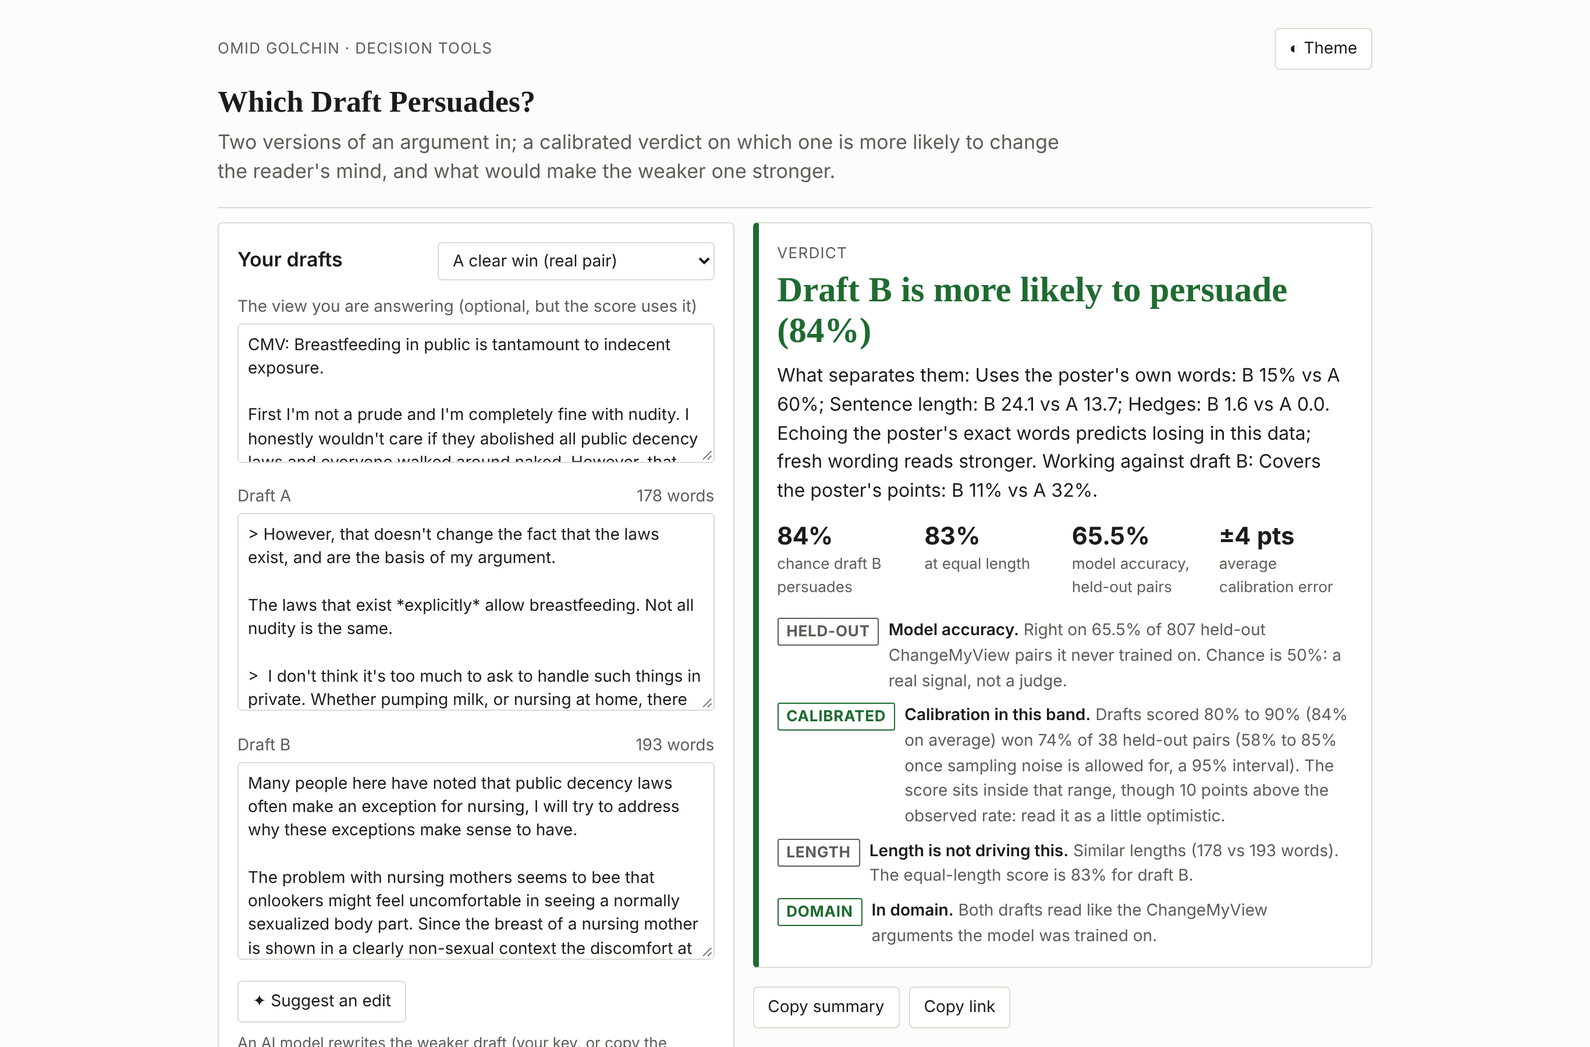
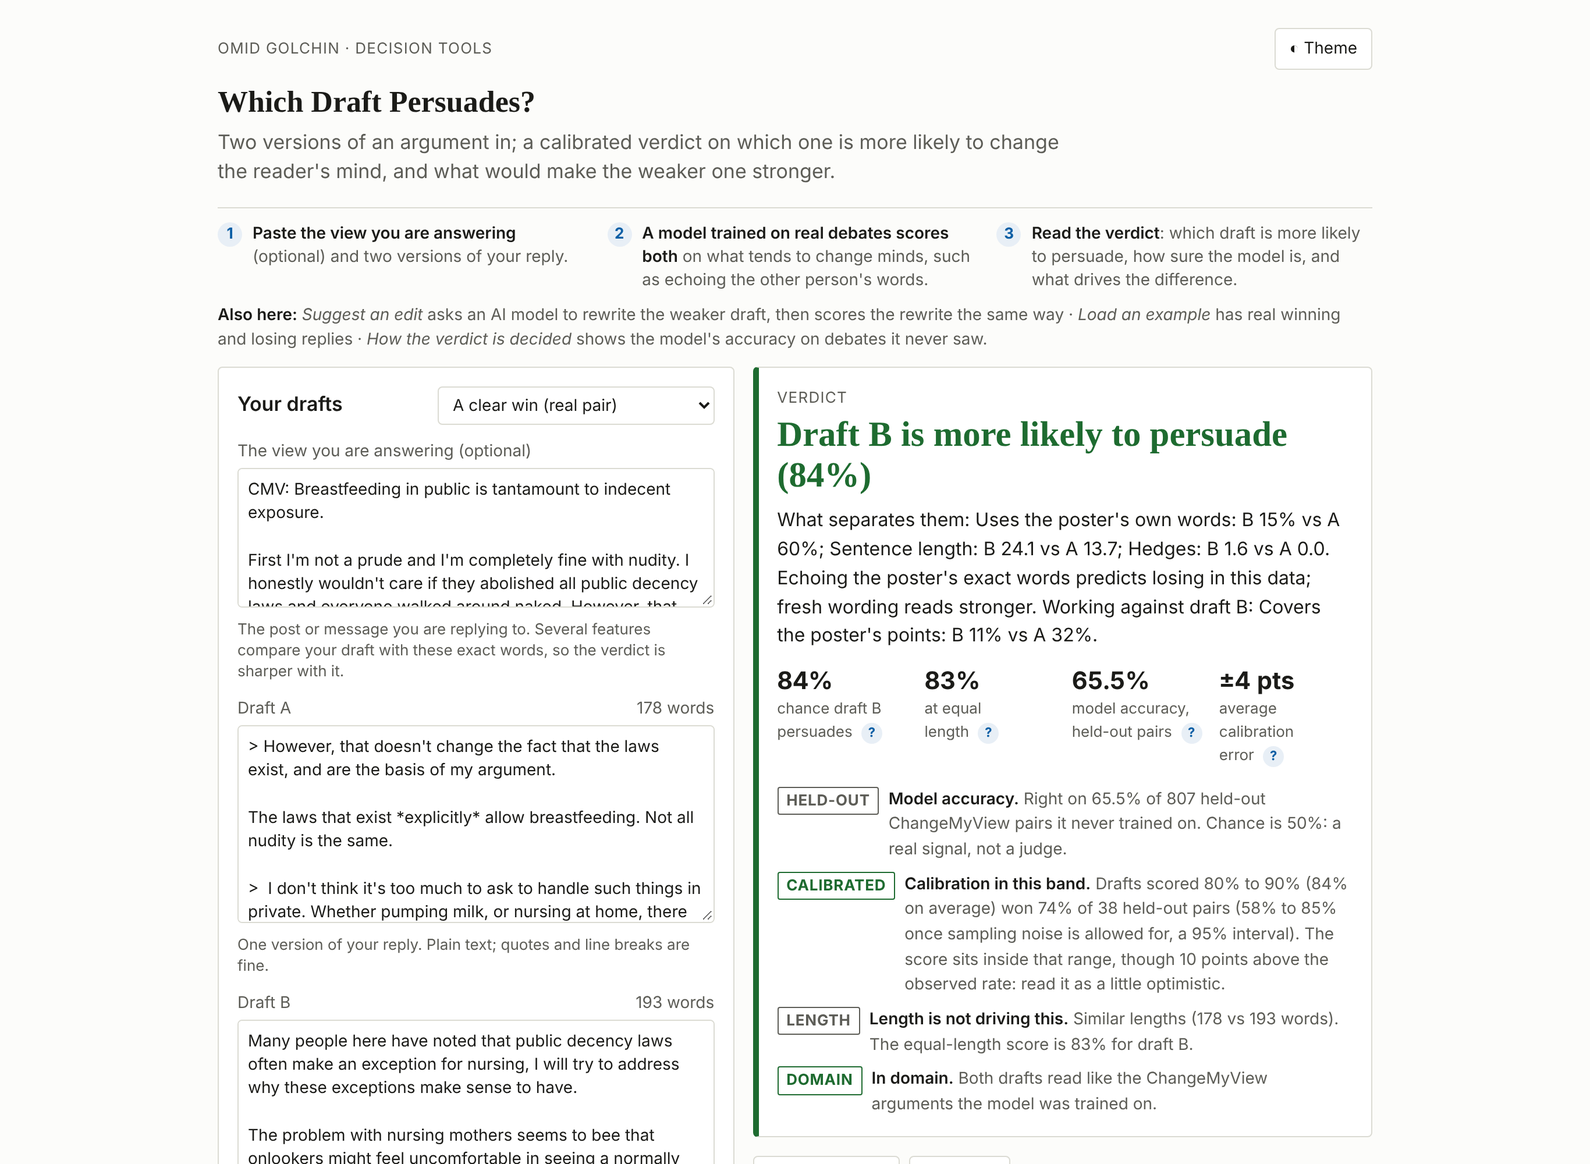
Explain every input and result; shared kit v3
Each mode now opens with a three-step guide, every input has a hint saying what the number is and why it matters, and technical terms in inputs and results have a ? that opens a plain-language explanation. Kit v3: explanations, arrow-key tabs, aligned input columns, slanted category labels on crowded charts, one shared list of tools in the footer. README, hero GIF and screenshots match the page.

Changed region(s): [[0.1245, 0.0311, 0.8712, 1.0], [0.8089, 0.0311, 0.8712, 0.0622]]

diff --git a/docs/tool-common.js b/docs/tool-common.js
@@ -1,4 +1,4 @@
-/* omid-tools-kit / tool-common.js: helpers shared by every tool (v2).
+/* omid-tools-kit / tool-common.js: helpers shared by every tool (v3).
  *
  *   Tool.readParams(defaults)      inputs from the URL query, typed like defaults
  *   Tool.writeParams(obj)          inputs into the URL (replaceState, no reload)
@@ -6,6 +6,9 @@
  *   Tool.fmt.*                     number formatting
  *   Tool.lineChart(el, spec)       a small, dependency-free SVG line chart
  *   Tool.assist(config)            the "Fill from description" AI assist
+ *   Tool.explain(glossary)         "?" buttons that open a plain-language explanation
+ *   Tool.siblings(currentRepo)     the "More tools" footer line, from one shared list
+ *   Tool.tabs(tablist)             arrow-key support for a mode switch
  *
  * No dependencies. Works from file:// and on GitHub Pages.
  */
@@ -132,6 +135,14 @@
     var yMax = spec.yMax != null ? spec.yMax : Math.max.apply(null, ys);
     if (yMax === yMin) { yMax += 1; yMin -= 1; }
     if (spec.yMax == null) yMax += (yMax - yMin) * 0.06;
+    // category labels that do not fit side by side are slanted, with room made below
+    var slant = false;
+    if (spec.xTicks && spec.xFormat && spec.xTicks.length > 1) {
+      var maxLen = 0;
+      spec.xTicks.forEach(function (v) { maxLen = Math.max(maxLen, String(spec.xFormat(v)).length); });
+      var room = (W - m.l - m.r) / spec.xTicks.length;
+      if (maxLen * 6.3 > room - 6) { slant = true; m.b += Math.min(78, maxLen * 4.4); }
+    }
     var X = function (v) { return m.l + (v - xMin) / (xMax - xMin || 1) * (W - m.l - m.r); };
     var Y = function (v) { return H - m.b - (v - yMin) / (yMax - yMin) * (H - m.t - m.b); };
     var svg = el("svg", { viewBox: "0 0 " + W + " " + H, role: "img", "aria-label": spec.aria || spec.yTitle || "chart" }, host);
@@ -148,7 +159,9 @@
     xt.forEach(function (v) {
       if (v < xMin - 1e-12 || v > xMax + 1e-12) return;
       el("line", { x1: X(v), x2: X(v), y1: H - m.b, y2: H - m.b + 4, stroke: muted }, svg);
-      var t = el("text", { x: X(v), y: H - m.b + 17, "text-anchor": "middle" }, svg); t.textContent = xFmt(v);
+      var t = slant ? el("text", { x: X(v) + 4, y: H - m.b + 13, "text-anchor": "end", transform: "rotate(-38 " + (X(v) + 4) + " " + (H - m.b + 13) + ")" }, svg)
+        : el("text", { x: X(v), y: H - m.b + 17, "text-anchor": "middle" }, svg);
+      t.textContent = xFmt(v);
     });
     el("line", { x1: m.l, x2: W - m.r, y1: H - m.b, y2: H - m.b, stroke: muted }, svg);
     if (spec.xTitle) { var xtT = el("text", { x: (m.l + W - m.r) / 2, y: H - 6, "text-anchor": "middle", class: "title" }, svg); xtT.textContent = spec.xTitle; }
@@ -390,7 +403,144 @@
     return { buildPrompt: function (t) { return buildPrompt(cfg, t); }, parseReply: parseReply };
   }
 
-  var api = { readParams: readParams, writeParams: writeParams, copy: copy, fmt: fmt, lineChart: lineChart, niceTicks: niceTicks, assist: assist, _buildPrompt: buildPrompt, _parseReply: parseReply, _quoteFound: quoteFound, _coerce: coerce };
+
+  /* ---------------- explanations ("?" buttons) ----------------
+   * Markup: <button type="button" class="tip" data-tip="key">?</button>
+   * placed next to a label or result. glossary[key] = { t: "Term", d: "Plain explanation" }.
+   * The explanation opens as a small card under the button; Esc, a click
+   * elsewhere, or switching modes closes it. No layout shift: the card floats.
+   */
+  var tipCard = null, tipOwner = null;
+  function closeTip() {
+    if (tipCard) { tipCard.remove(); tipCard = null; }
+    if (tipOwner) { tipOwner.setAttribute("aria-expanded", "false"); tipOwner = null; }
+  }
+  function placeTip(btn) {
+    if (!tipCard) return;
+    var r = btn.getBoundingClientRect(), vw = document.documentElement.clientWidth;
+    var w = Math.min(340, vw - 24);
+    tipCard.style.width = w + "px";
+    var left = Math.max(12, Math.min(r.left + r.width / 2 - w / 2, vw - w - 12));
+    tipCard.style.left = (left + window.scrollX) + "px";
+    tipCard.style.top = (r.bottom + window.scrollY + 6) + "px";
+  }
+  var GLOSS = {};
+  function decorate(root) {
+    (root.querySelectorAll ? root : document).querySelectorAll("[data-tip]:not(.tip)").forEach(function (btn) {
+      var g = GLOSS[btn.getAttribute("data-tip")];
+      if (!g) return;
+      btn.classList.add("tip");
+      if (btn.tagName === "BUTTON") btn.type = "button";
+      if (!btn.textContent.trim()) btn.textContent = "?";
+      btn.setAttribute("aria-label", "What is " + g.t.replace(/[.?:]$/, "") + "?");
+      btn.setAttribute("aria-expanded", "false");
+      // keep the "?" on the same line as the last word before it
+      var prev = btn.previousSibling;
+      if (prev && prev.nodeType === 3 && /\S/.test(prev.nodeValue) && !(btn.parentNode.classList && btn.parentNode.classList.contains("nowrap"))) {
+        var m = prev.nodeValue.match(/^([\s\S]*?)(\S+)(\s*)$/);
+        if (m) {
+          prev.nodeValue = m[1];
+          var span = document.createElement("span"); span.className = "nowrap";
+          span.appendChild(document.createTextNode(m[2] + (m[3] ? "\u00a0" : "")));
+          btn.parentNode.insertBefore(span, btn); span.appendChild(btn);
+        }
+      }
+    });
+  }
+  /* Align labels, inputs and hints across the two input columns (CSS subgrid). */
+  function alignFields(root) {
+    if (typeof CSS === "undefined" || !CSS.supports || !CSS.supports("grid-template-rows", "subgrid")) return;
+    (root || document).querySelectorAll(".fields").forEach(function (grid) {
+      grid.classList.add("sg-on");
+      Array.prototype.forEach.call(grid.children, function (f) {
+        if (!f.classList.contains("field") || f.classList.contains("full") || f.classList.contains("sg")) return;
+        var kids = Array.prototype.slice.call(f.children);
+        if (!kids.length || kids[0].tagName !== "LABEL" || kids.length < 2) return;
+        var after = document.createElement("div"); after.className = "field-after";
+        kids.slice(2).forEach(function (k) { after.appendChild(k); });
+        f.appendChild(after); f.classList.add("sg");
+      });
+    });
+  }
+  function explain(glossary) {
+    Object.keys(glossary || {}).forEach(function (k) { GLOSS[k] = glossary[k]; });
+    decorate(document);
+    if (explain._wired) return;
+    explain._wired = true;
+    new MutationObserver(function (ms) { ms.forEach(function (m) { m.addedNodes.forEach(function (n) { if (n.nodeType === 1) { if (n.hasAttribute("data-tip")) decorate(n.parentNode || document); else decorate(n); } }); }); })
+      .observe(document.body, { childList: true, subtree: true });
+    document.addEventListener("click", function (e) {
+      var btn = e.target.closest ? e.target.closest("[data-tip]") : null;
+      if (btn && GLOSS[btn.getAttribute("data-tip")]) {
+        e.preventDefault();
+        var same = tipOwner === btn; closeTip(); if (same) return;
+        var g = GLOSS[btn.getAttribute("data-tip")];
+        tipCard = document.createElement("div");
+        tipCard.className = "tip-card"; tipCard.setAttribute("role", "note");
+        tipCard.id = "tipc-" + Math.random().toString(36).slice(2, 8);
+        btn.setAttribute("aria-describedby", tipCard.id);
+        tipCard.innerHTML = '<p class="tip-t">' + esc(g.t) + '</p><p class="tip-d">' + g.d + "</p>";
+        document.body.appendChild(tipCard);
+        tipOwner = btn; btn.setAttribute("aria-expanded", "true"); placeTip(btn);
+        return;
+      }
+      if (tipCard && !tipCard.contains(e.target)) closeTip();
+    });
+    document.addEventListener("keydown", function (e) { if (e.key === "Escape" && tipCard) { var o = tipOwner; closeTip(); if (o) o.focus(); } });
+    window.addEventListener("resize", function () { if (tipOwner) placeTip(tipOwner); });
+  }
+
+  /* ---------------- the shared tool list ---------------- */
+  var TOOLS = [
+    ["bayesian-ab-lab", "A/B Test Decision Tool"],
+    ["queue-simulator", "Call Center Staffing Planner"],
+    ["experiment-hazard-simulator", "Agent Eval Planner"],
+    ["llm-eval-error-bar", "Error Bars for LLM Evals"],
+    ["ordering-policy-tester", "Ordering Policy Tester"],
+    ["order-quantity-planner", "Order Quantity Planner"],
+    ["production-line-simulator", "Production Line Bottleneck Finder"],
+    ["persuasion-checker", "Which Draft Persuades?"],
+    ["gpu-budget-planner", "GPU Budget Planner"]
+  ];
+  function siblings(current) {
+    var host = document.querySelector(".kit-siblings");
+    if (!host) return;
+    host.innerHTML = '<span class="kit-siblings-label">More tools:</span> ' + TOOLS.map(function (t) {
+      return t[0] === current ? '<a href="https://omidgolchin.github.io/' + t[0] + '/" aria-current="page">' + t[1] + "</a>"
+        : '<a href="https://omidgolchin.github.io/' + t[0] + '/">' + t[1] + "</a>";
+    }).join(" · ");
+  }
+
+  /* ---------------- tabs: arrow keys, panels ---------------- */
+  function tabs(list) {
+    list = list || document.querySelector("[role=tablist]");
+    if (!list) return;
+    var items = Array.prototype.slice.call(list.querySelectorAll("[role=tab]"));
+    items.forEach(function (t) {
+      t.addEventListener("click", function () { closeTip(); });
+      t.addEventListener("keydown", function (e) {
+        var i = items.indexOf(t), j = -1;
+        if (e.key === "ArrowRight") j = (i + 1) % items.length;
+        else if (e.key === "ArrowLeft") j = (i - 1 + items.length) % items.length;
+        else if (e.key === "Home") j = 0; else if (e.key === "End") j = items.length - 1;
+        if (j < 0) return;
+        e.preventDefault(); items[j].focus(); items[j].click();
+      });
+    });
+    var sync = function () { items.forEach(function (t) { t.tabIndex = t.getAttribute("aria-selected") === "true" ? 0 : -1; }); };
+    sync(); new MutationObserver(sync).observe(list, { subtree: true, attributes: true, attributeFilter: ["aria-selected"] });
+  }
+
+  if (typeof document !== "undefined") {
+    document.addEventListener("DOMContentLoaded", function () {
+      var m = location.pathname.match(/\/([^\/]+)\/(?:docs\/)?(?:index\.html)?$/);
+      siblings(m ? m[1] : "");
+      tabs();
+      alignFields();
+    });
+  }
+
+  var api = { explain: explain, alignFields: alignFields, closeTip: closeTip, siblings: siblings, tabs: tabs, TOOLS: TOOLS, readParams: readParams, writeParams: writeParams, copy: copy, fmt: fmt, lineChart: lineChart, niceTicks: niceTicks, assist: assist, _buildPrompt: buildPrompt, _parseReply: parseReply, _quoteFound: quoteFound, _coerce: coerce };
   if (typeof module !== "undefined" && module.exports) module.exports = api;
   if (typeof window !== "undefined") window.Tool = api;
 })();

diff --git a/docs/index.html b/docs/index.html
@@ -24,6 +24,14 @@
     <h1>Which Draft Persuades?</h1>
     <p class="kit-tagline">Two versions of an argument in; a calibrated verdict on which one is more likely to change the reader's mind, and what would make the weaker one stronger.</p>
   </header>
+  <div class="guide" aria-label="How to use this tool">
+    <ol class="steps">
+      <li><b>Paste the view you are answering</b> (optional) and two versions of your reply.</li>
+      <li><b>A model trained on real debates scores both</b> on what tends to change minds, such as echoing the other person's words.</li>
+      <li><b>Read the verdict</b>: which draft is more likely to persuade, how sure the model is, and what drives the difference.</li>
+    </ol>
+    <p class="also"><b>Also here:</b> <i>Suggest an edit</i> asks an AI model to rewrite the weaker draft, then scores the rewrite the same way · <i>Load an example</i> has real winning and losing replies · <i>How the verdict is decided</i> shows the model's accuracy on debates it never saw.</p>
+  </div>
 
   <div class="work">
     <form class="panel" id="f-main" novalidate onsubmit="return false">
@@ -34,15 +42,15 @@
         </select>
       </div>
       <div class="fields">
-        <div class="field full"><label for="op">The view you are answering <span class="muted">(optional, but the score uses it)</span></label>
+        <div class="field full"><label for="op">The view you are answering <span class="muted">(optional)</span></label>
           <textarea id="op" placeholder="Paste the original post or message your drafts reply to. Several features measure how a draft engages with these exact words, so the verdict is sharper with it."></textarea>
-        </div>
+        <div class="hint">The post or message you are replying to. Several features compare your draft with these exact words, so the verdict is sharper with it.</div></div>
         <div class="field full"><label for="draftA">Draft A <span class="wc" id="wcA"></span></label>
           <textarea id="draftA" class="tall" placeholder="Paste the first version of your argument."></textarea>
-        </div>
+        <div class="hint">One version of your reply. Plain text; quotes and line breaks are fine.</div></div>
         <div class="field full"><label for="draftB">Draft B <span class="wc" id="wcB"></span></label>
           <textarea id="draftB" class="tall" placeholder="Paste the second version."></textarea>
-        </div>
+        <div class="hint">The other version, answering the same view.</div></div>
       </div>
       <div class="actions" style="margin-top:12px">
         <button type="button" id="assistToggle">✦ Suggest an edit</button>
@@ -71,7 +79,7 @@
   <p class="footnote" id="exNote" hidden style="margin-top:10px"></p>
 
   <section class="panel" style="margin-top:16px">
-    <h2>What drives the difference</h2>
+    <h2>What drives the difference <button type="button" data-tip="drivers"></button></h2>
     <div class="svgchart" id="contribChart"></div>
     <p class="chart-caption" id="contribCaption"></p>
   </section>
@@ -99,10 +107,7 @@
   </details>
 
   <footer class="kit-footer">
-    <p class="kit-siblings"><span class="kit-siblings-label">More tools:</span>
-      <a href="https://omidgolchin.github.io/bayesian-ab-lab/">A/B Test Decision Tool</a> ·
-      <a href="https://omidgolchin.github.io/queue-simulator/">Call Center Staffing Planner</a> ·
-      <a href="https://omidgolchin.github.io/experiment-hazard-simulator/">Agent Eval Planner</a></p>
+    <p class="kit-siblings"></p>
     <p>Built by Omid Golchin · <a href="https://github.com/omidgolchin/persuasion-checker">Code, tests and design decisions</a> · Everything runs in your browser; nothing you type is sent anywhere unless you use the AI edit with your own key.</p>
   </footer>
 </main>

diff --git a/docs/tool.css b/docs/tool.css
@@ -1,5 +1,5 @@
 [hidden] { display: none !important; }
-/* omid-tools-kit / tool.css: the layout shared by every tool (v2).
+/* omid-tools-kit / tool.css: the layout shared by every tool (v3).
  *
  * Loads after kit.css. Adds the tool page pattern:
  *   header, mode switch, [inputs | verdict] two-column work area,
@@ -103,3 +103,38 @@ select.example { font-size: var(--fs-small); }
 
 .footnote { font-size: var(--fs-caption); color: var(--muted); }
 .page-sub { color: var(--muted); font-size: var(--fs-lede); max-width: 70ch; margin: var(--sp-2) 0 0; }
+
+/* ---- v3: how-to guide, explanations, phone fixes ---- */
+.guide { margin: var(--sp-3) 0 0; }
+.guide .steps { list-style: none; counter-reset: step; display: grid; grid-template-columns: repeat(3, minmax(0, 1fr)); gap: var(--sp-3); margin: 0; padding: 0; }
+.guide .steps li { counter-increment: step; position: relative; padding-left: 30px; font-size: var(--fs-small); color: var(--muted); line-height: 1.45; }
+.guide .steps li::before { content: counter(step); position: absolute; left: 0; top: 0; width: 21px; height: 21px; border-radius: 50%; background: var(--accent-soft); color: var(--accent); font-weight: 700; font-size: var(--fs-caption); display: flex; align-items: center; justify-content: center; }
+.guide .steps b { color: var(--fg); font-weight: 600; }
+.guide .also { font-size: var(--fs-small); color: var(--muted); margin: var(--sp-2) 0 0; }
+.guide .also b { color: var(--fg); font-weight: 600; }
+@media (max-width: 720px) { .guide .steps { grid-template-columns: minmax(0, 1fr); gap: var(--sp-2); } }
+
+.tip { display: inline-flex; align-items: center; justify-content: center; width: 18px; height: 18px; min-width: 18px; padding: 0; margin-left: 4px; border-radius: 50%; font-size: 11px; font-weight: 700; line-height: 1; color: var(--accent); background: var(--accent-soft); border: 1px solid transparent; vertical-align: 1px; position: relative; }
+.tip::after { content: ""; position: absolute; inset: -8px; }  /* bigger touch target, same look */
+.tip:hover, .tip[aria-expanded="true"] { border-color: var(--accent); }
+.tip-card { position: absolute; z-index: 50; background: var(--card); color: var(--fg); border: 1px solid var(--border); border-radius: var(--radius); box-shadow: 0 6px 24px rgba(0,0,0,.14); padding: var(--sp-3); }
+.tip-card .tip-t { font-weight: 600; margin: 0 0 4px; font-size: var(--fs-small); }
+.tip-card .tip-d { margin: 0; font-size: var(--fs-small); line-height: 1.5; color: var(--muted); }
+.field label .tip, .kpi .tip, h2 .tip, h3 .tip, legend .tip, th .tip { vertical-align: 0; }
+
+.field .hint { line-height: 1.4; }
+[role=tabpanel]:focus { outline: none; }
+@media (max-width: 600px) {
+  .formula { white-space: pre-wrap; word-break: break-word; }
+  .tool-modes { display: flex; width: 100%; }
+  .tool-modes button { flex: 1 1 0; padding: 9px 8px; }
+  .actions button { min-height: 36px; }
+}
+.nowrap { white-space: nowrap; }
+.fields.sg-on { row-gap: 0; }
+.fields.sg-on > .field.sg { display: grid; grid-row: span 4; grid-template-rows: subgrid; grid-template-columns: minmax(0, 1fr); row-gap: 0; min-width: 0; }
+.fields.sg-on > .field.sg > label { align-self: end; }
+.fields.sg-on > .field.sg::after { content: ""; height: var(--sp-3); }
+.fields.sg-on > :not(.sg) { margin-bottom: var(--sp-3); }
+.fields.sg-on > .group-label { margin: var(--sp-2) 0 6px; }
+.field-after:empty { display: none; }

diff --git a/docs/app.js b/docs/app.js
@@ -202,11 +202,11 @@
 
     var pEqLead = W === "B" ? d.equalLength.pB : 1 - d.equalLength.pB;
     $("kpis").innerHTML = [
-      [F.pct(p, 0), "chance draft " + W + " persuades"],
-      [F.pct(pEqLead, 0), "at equal length"],
-      [F.pct(ACC, 1), "model accuracy, held-out pairs"],
-      ["±" + Math.round(ECE * 100) + " pts", "average calibration error"]
-    ].map(function (x) { return '<div class="kpi"><span class="k-val">' + x[0] + '</span><span class="k-lbl">' + x[1] + "</span></div>"; }).join("");
+      [F.pct(p, 0), "chance draft " + W + " persuades", "prob"],
+      [F.pct(pEqLead, 0), "at equal length", "eqlen"],
+      [F.pct(ACC, 1), "model accuracy, held-out pairs", "acc"],
+      ["±" + Math.round(ECE * 100) + " pts", "average calibration error", "ece"]
+    ].map(function (x) { return '<div class="kpi"><span class="k-val">' + x[0] + '</span><span class="k-lbl">' + x[1] + (x[2] ? ' <button type="button" data-tip="' + x[2] + '"></button>' : "") + "</span></div>"; }).join("");
 
     var c = [];
     c.push(["info", "HELD-OUT", "Model accuracy",
@@ -332,6 +332,14 @@
   });
   window.addEventListener("resize", debounce(function () { if (last) drawChart(last); }, 200));
   if (window.KitTheme) KitTheme.onChange(function () { setTimeout(function () { if (last) drawChart(last); }, 0); });
+
+  Tool.explain({
+    prob: { t: "Chance this draft persuades", d: "The model's probability that this draft, rather than the other, is the one that changes the reader's mind. It comes from a logistic regression on the difference between the two drafts' features, trained on pairs of real replies to the same post where only one earned a 'view changed' award (Tan et al., 2016, ChangeMyView data)." },
+    eqlen: { t: "At equal length", d: "Longer replies win more often in the data, partly because they simply say more. This is the same verdict with length held equal, so you can see whether length alone is doing the work." },
+    acc: { t: "Model accuracy", d: "How often the model picked the real winner on 807 pairs it never saw in training. 50% is a coin flip. Persuasion is hard to predict from text alone, so read the verdict as a signal, not a judgment." },
+    ece: { t: "Calibration error", d: "Whether the probabilities can be taken at face value: when the model says 70%, does that draft win about 70% of the time? This is the average gap between stated and observed rates on held-out pairs (expected calibration error)." },
+    drivers: { t: "What drives the difference", d: "Each bar is one feature's push on a draft's score, on the log-odds scale: right helps, left hurts. Bars come from the trained weight × the draft's value for that feature, so you can see which habits (echoing the original wording, hedging, long sentences) moved the verdict." }
+  });
 
   run();
 })();

diff --git a/README.md b/README.md
@@ -2,9 +2,9 @@
 
 For anyone choosing between two versions of an argument: paste the view you are answering and both drafts, and get a calibrated verdict on which draft is more likely to change the reader's mind, what drives the difference, and how far to trust the number, from a model trained on 4,263 real ChangeMyView argument pairs.
 
-![The tool cycling through its examples: a clear win, the pair where length does the work, and an out-of-domain pair that triggers the warning](docs/hero.gif)
+![The tool on three real pairs (a clear win, a win on length, too close to call) and the explanation of the model's accuracy](docs/hero.gif)
 
-![The tool on a desktop: two drafts in, a verdict that draft B is more likely to persuade, with the checks strip and the feature chart](docs/screenshots/desktop.png)
+![The tool on a desktop: the three-step guide, the two drafts with a hint under each, and the verdict](docs/screenshots/desktop.png)
 
 **Use it:** https://omidgolchin.github.io/persuasion-checker/ (runs in your browser; nothing you type is sent anywhere unless you use the AI edit with your own key)
 
@@ -15,6 +15,7 @@ For anyone choosing between two versions of an argument: paste the view you are 
 - **A domain warning.** Drafts far from the ChangeMyView arguments the model learned from (very short, marketing copy, legal boilerplate) get flagged instead of a confident number.
 - **Suggest an edit.** The tool composes a brief (both drafts, its scores, which draft is weaker and what it is missing); a language model, with your own key or by copy-pasting the prompt into any assistant, rewrites the weaker draft. The tool then re-scores the edit with the trained model. The language model never produces a score.
 - **Copy summary / Copy link.** A plain-text summary for a message or doc, and a link that reopens the tool with the same drafts.
+- **Help where you need it.** The page opens with three steps saying what to enter and what you get; every input has a line under it saying what the number is, why it matters and where to find it; and every technical term in the inputs and results has a **?** that opens a plain-language explanation.
 
 ## Built-in checks
 
